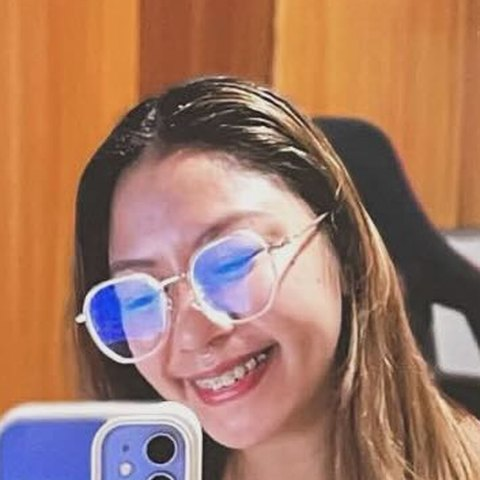
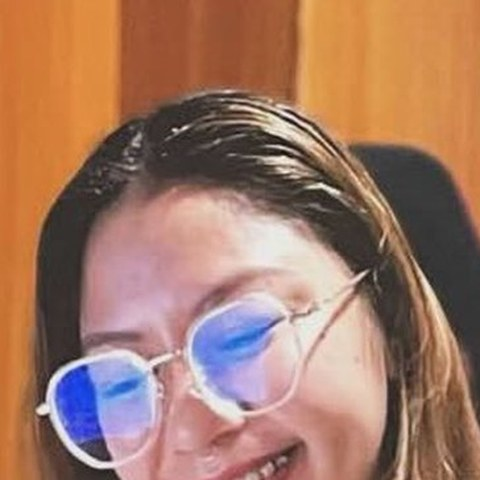
Liberate: photos on every testimony card, better face crops, drop 'by message / after day one' labels
- Quote wall: each testimony now shows the person's photo beside their name and intake (hidden when no real photo exists)
- Re-cropped erika (phone removed) and ikay (tighter headshot) so the faces read clearly
- Removed the ' · by message' and ' · after day one' qualifiers from the attributions

diff --git a/lib/content.ts b/lib/content.ts
@@ -335,13 +335,13 @@ export const DEFAULT_LIBERATE_WORDS: Story[] = [
   { id: "tonet", name: "Tonet", role: "Liberate 3", quote: "It was deeply rooted in fear — fear of being heard, of being seen, of being judged. Liberate liberated me from the fear." },
   { id: "bam", name: "Bam", role: "Liberate 3", quote: "A few months ago I had forgotten a lot of the good things about me. Through the coaching and the peer group, it helped me bring up the real in me." },
   { id: "mitch", name: "Mitch", role: "Liberate 4", quote: "I 100% understand why you felt you had to bend over backwards for other people’s approval. There’s no more need for that." },
-  { id: "dayone", name: "A student", role: "Liberate 4 · after day one", quote: "I shared with my partner about Liberate and the learnings I had — things I never shared with him before. He told me, ‘grabe ha, day 1 palang yan.’" },
+  { id: "dayone", name: "A student", role: "Liberate 4", quote: "I shared with my partner about Liberate and the learnings I had — things I never shared with him before. He told me, ‘grabe ha, day 1 palang yan.’" },
   { id: "joyce", name: "Joyce", role: "Liberate 4", quote: "I decided to go to Liberate because I believe there is more of me that I need to discover — and I want to discover. It’s a space where you can really be you." },
   { id: "precious", name: "Precious", role: "Liberate 4", quote: "Ang sarap huminga ng malaya, ng wala kang iniisip na kahit ano. Akala natin hanggang doon lang — pero yun pala, endless lahat." },
   { id: "kimi", name: "Kimi", role: "Liberate 4", quote: "It’s about freeing yourself and being in a safe space where you are welcome, heard, seen — and most importantly, appreciated." },
   { id: "ikay", name: "Ikay", role: "Liberate 4", quote: "The reason I joined Liberate was because I was a very angry daughter. Liberate helped me process it — to lessen the tightness in the chest, and just really let go." },
-  { id: "tiff2", name: "Tiffany Galvez", role: "Liberate 2 · by message", quote: "It was Liberate that pushed me to try pageantry again. I learned from you, coach, that there is always something more. I’m celebrating the person I’ve become after these experiences." },
-  { id: "jilla", name: "Jill Almendral", role: "Liberate · by message", quote: "Nakalipat na ako — finally. Sa Liberate ko talaga na-push gawin ’to. The right time is always today. Take the first step." },
+  { id: "tiff2", name: "Tiffany Galvez", role: "Liberate 2", quote: "It was Liberate that pushed me to try pageantry again. I learned from you, coach, that there is always something more. I’m celebrating the person I’ve become after these experiences." },
+  { id: "jilla", name: "Jill Almendral", role: "Liberate", quote: "Nakalipat na ako — finally. Sa Liberate ko talaga na-push gawin ’to. The right time is always today. Take the first step." },
   { id: "victoria", name: "Victoria", role: "Liberate 3", quote: "It’s just so clear with what I want in my life now." },
   { id: "reel1", name: "Liberate 1", role: "The circle", quote: "I appreciate you for creating a safe space." },
   { id: "reel2a", name: "Liberate 2", role: "The circle", quote: "POV: You finally found your tribe." },

diff --git a/app/liberate/LiberateClient.tsx b/app/liberate/LiberateClient.tsx
@@ -1005,7 +1005,7 @@ export default function LiberateClient({ photos = {}, words: incoming, videos: i
               <div key={(w.id ?? w.who) + i} className="lb-reveal is-in lb-word">
                 {w.id && THEME_OF[w.id] && <span className="lb-tag">{THEME_OF[w.id]}</span>}
                 <p className="lb-quote">{w.q}</p>
-                <p className="lb-who lb-word-who">{w.who}{w.role && <span>{w.role}</span>}</p>
+                <div className="lb-word-head">{w.photo && <Face src={w.photo} name={w.who} size={48} />}<p className="lb-who">{w.who}{w.role && <span>{w.role}</span>}</p></div>
               </div>
             ))}
           </div>
